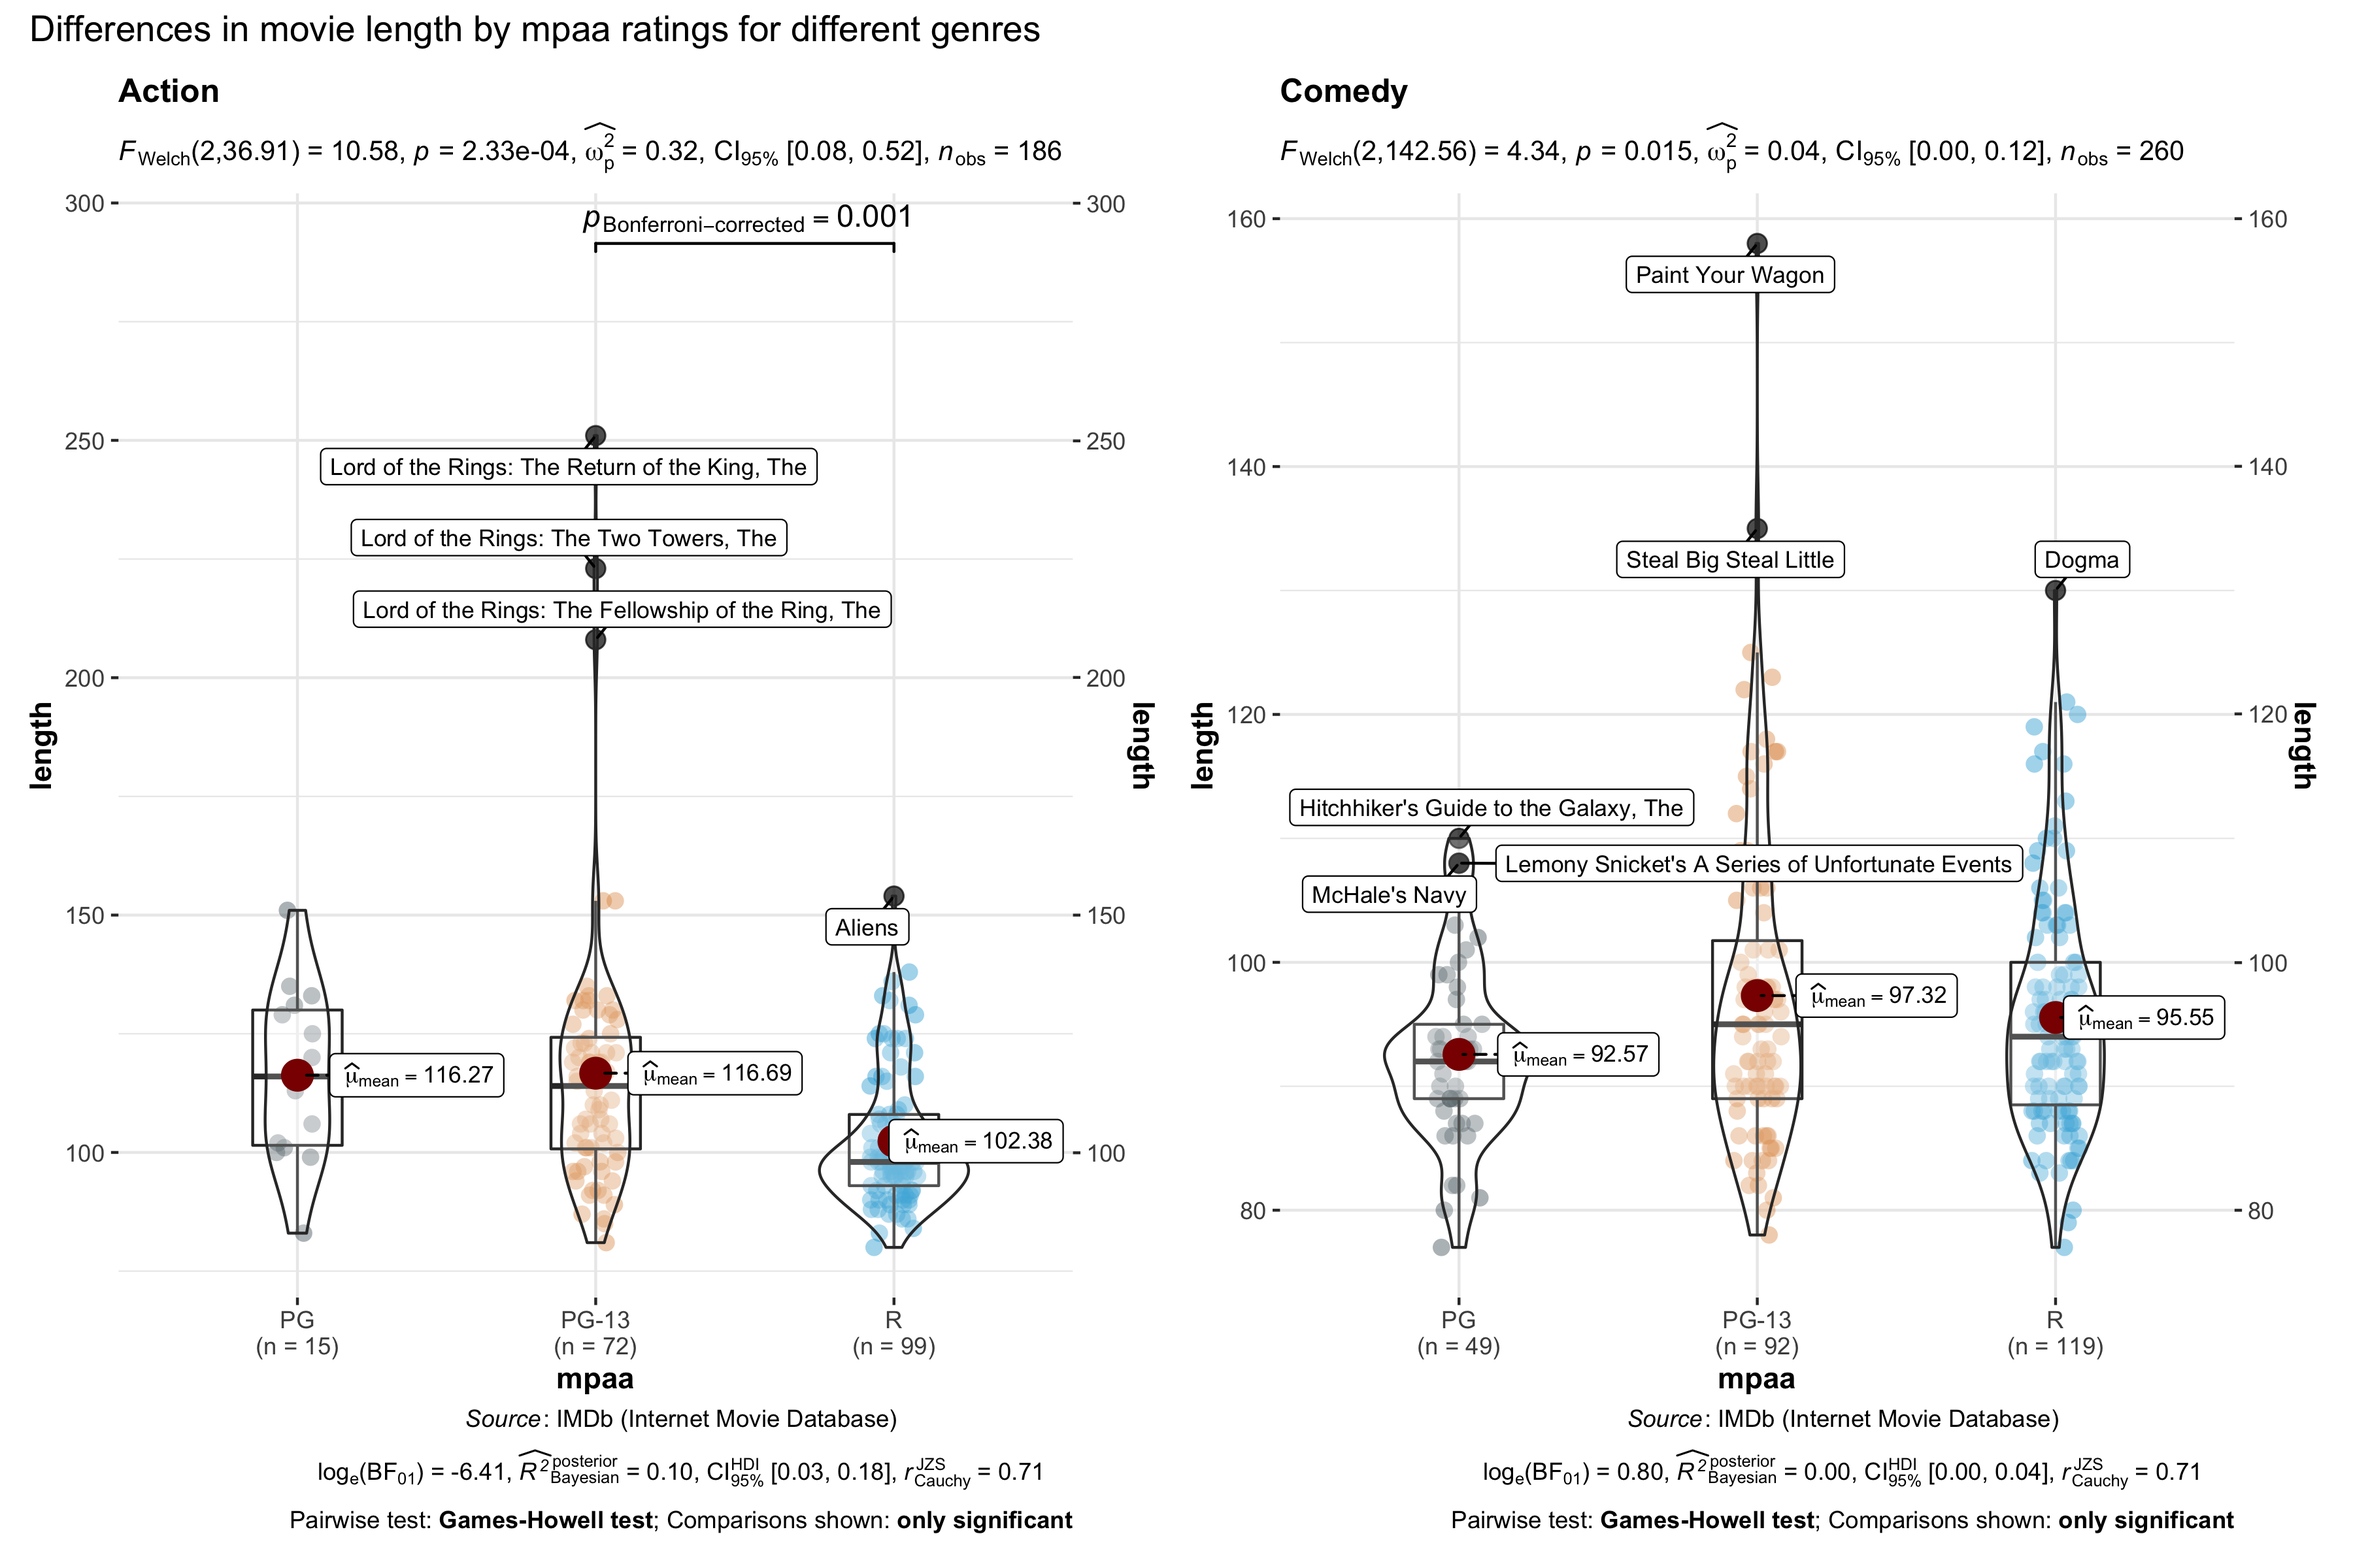
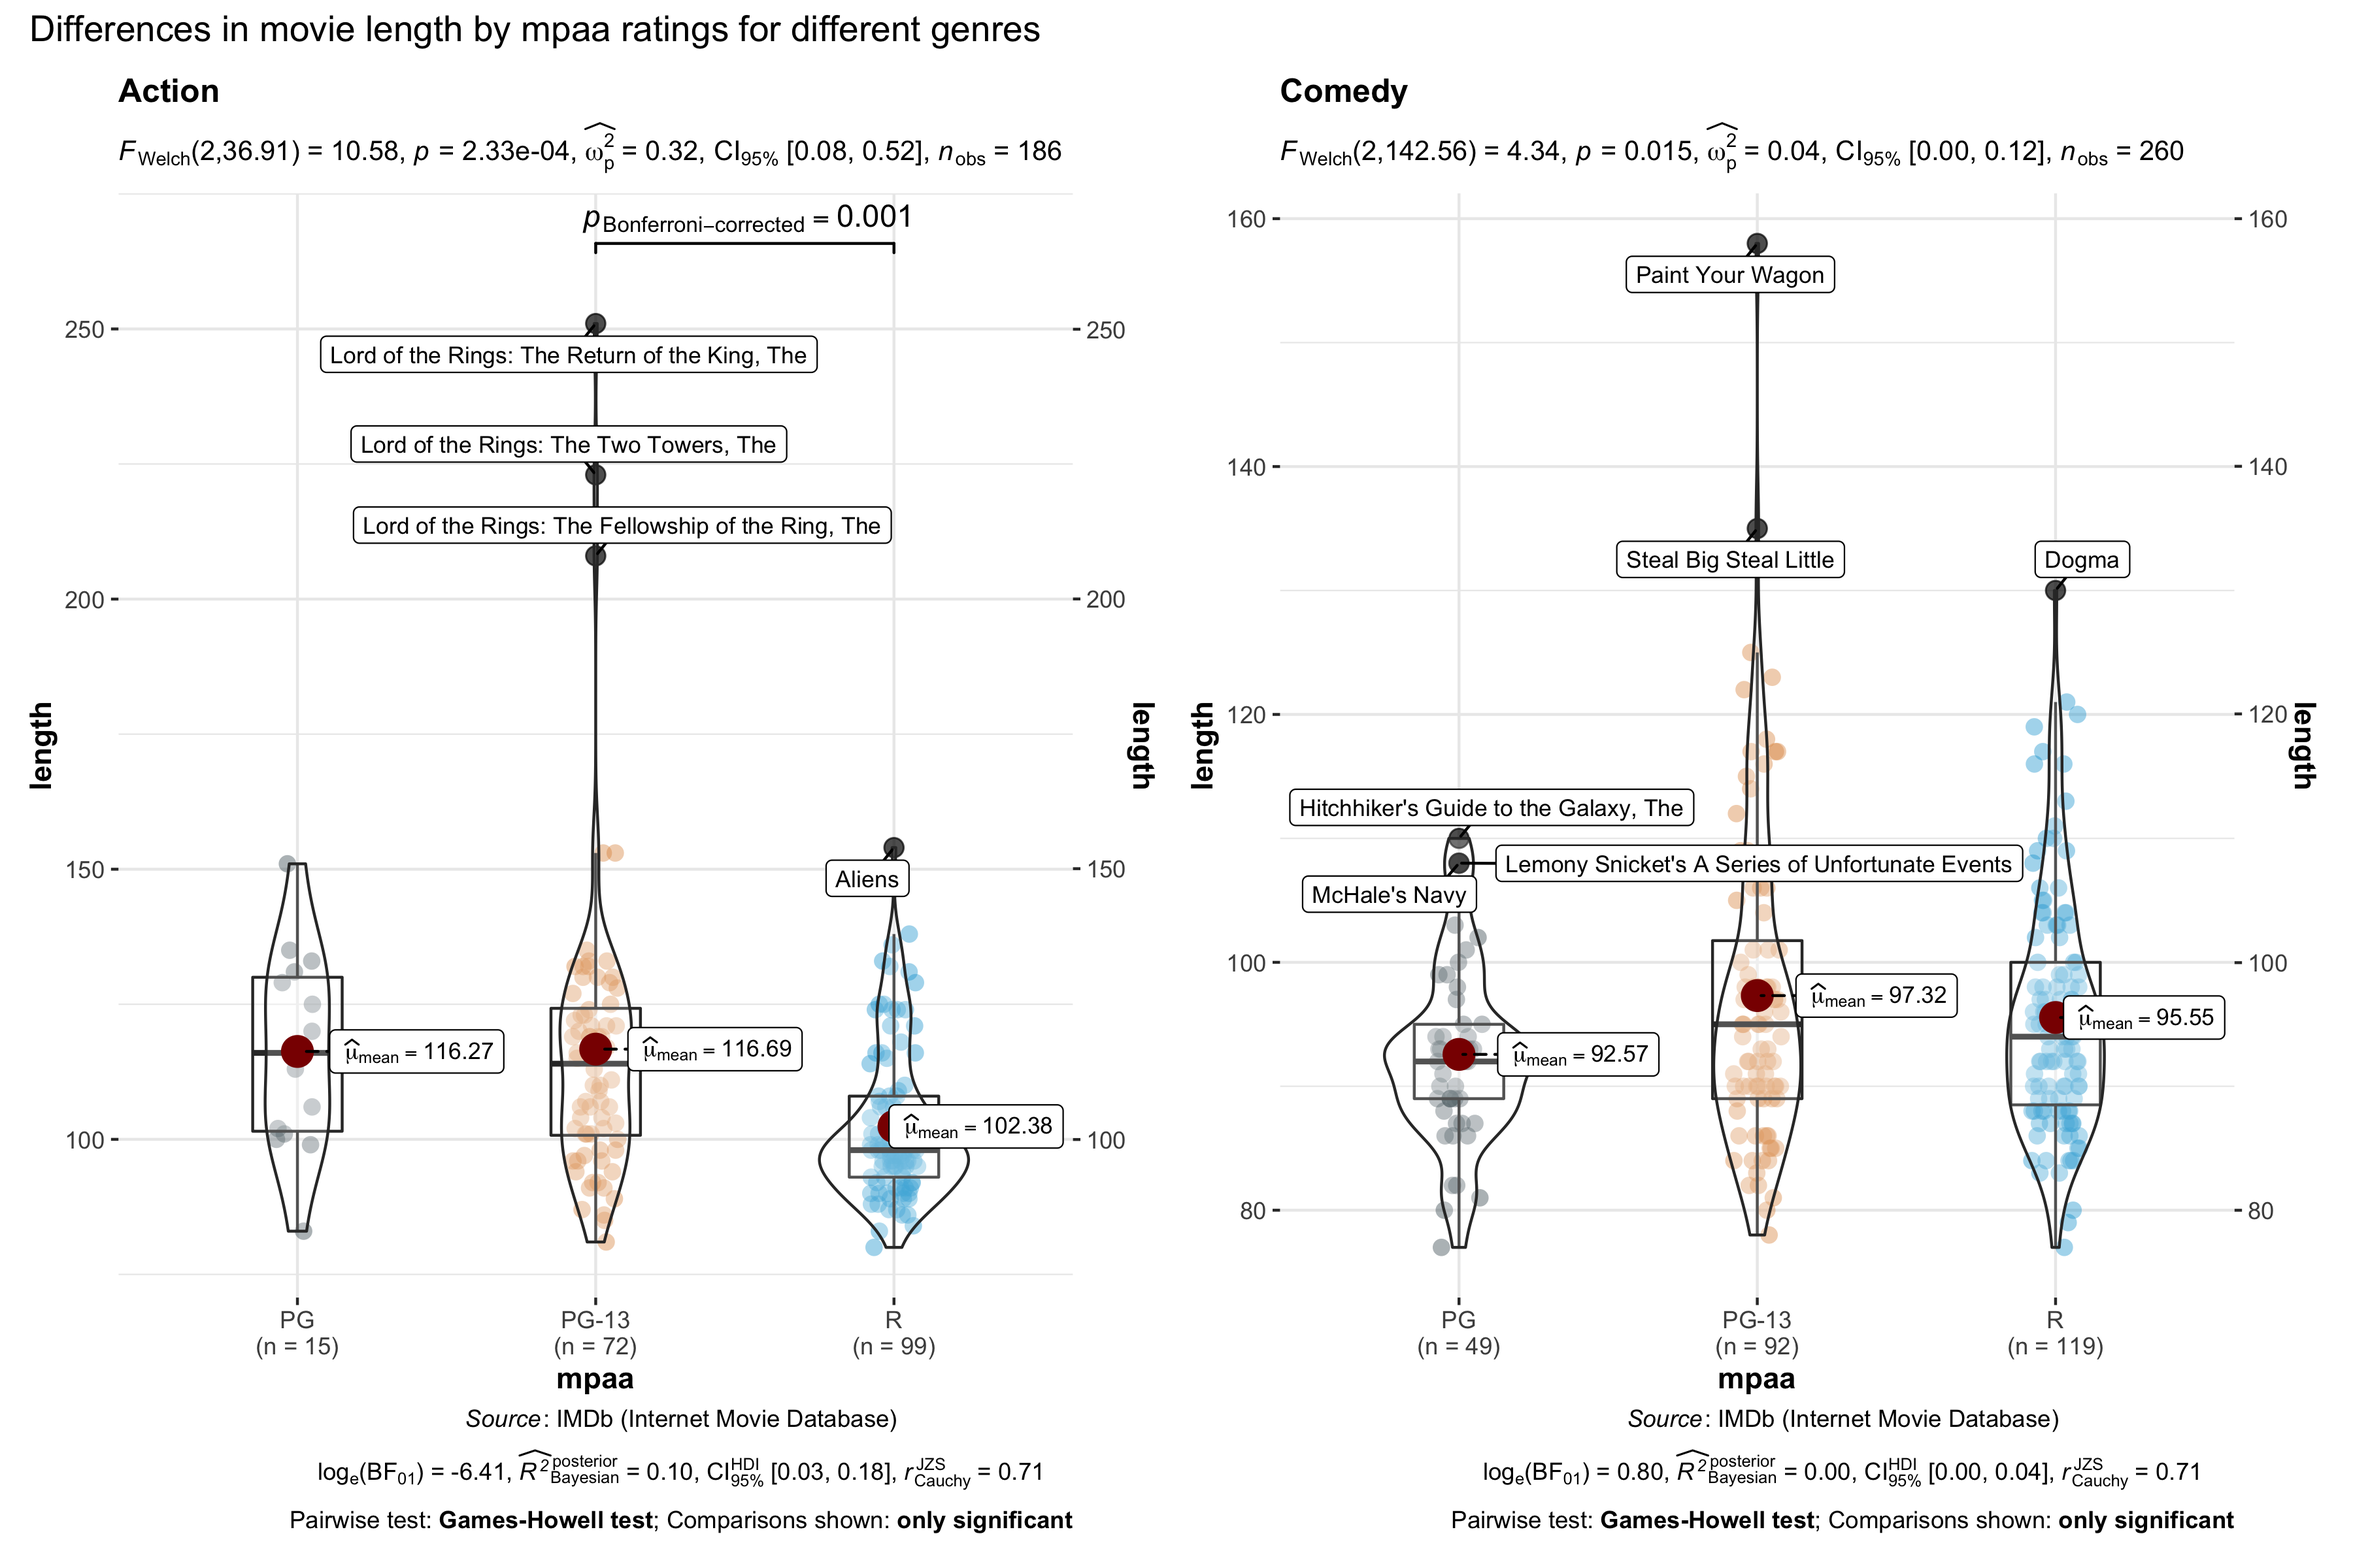
revert ggsignif_xy move change

Changed region(s): [[0.0311, 0.5312, 0.4978, 0.7812], [0.1244, 0.1875, 0.3733, 0.4375]]

diff --git a/tests/testthat/_snaps/pairwise_ggsignif.md b/tests/testthat/_snaps/pairwise_ggsignif.md
@@ -204,9 +204,9 @@
       1 1    1 167852.2 169428.2 list(~italic(p)[uncorrected]==0.0467) PG-PG-13-1
       2 1    2 169428.2 169428.2 list(~italic(p)[uncorrected]==0.0467) PG-PG-13-1
       3 2    2 169428.2 167852.2 list(~italic(p)[uncorrected]==0.0467) PG-PG-13-1
-      4 2    2 191492.2 193068.2 list(~italic(p)[uncorrected]==0.0354)  PG-13-R-2
-      5 2    3 193068.2 193068.2 list(~italic(p)[uncorrected]==0.0354)  PG-13-R-2
-      6 3    3 193068.2 191492.2 list(~italic(p)[uncorrected]==0.0354)  PG-13-R-2
+      4 2    2 179672.2 181248.2 list(~italic(p)[uncorrected]==0.0354)  PG-13-R-2
+      5 2    3 181248.2 181248.2 list(~italic(p)[uncorrected]==0.0354)  PG-13-R-2
+      6 3    3 181248.2 179672.2 list(~italic(p)[uncorrected]==0.0354)  PG-13-R-2
         PANEL shape colour textsize angle hjust vjust alpha family fontface
       1     1    19  black        3     0   0.5     0    NA               1
       2     1    19  black        3     0   0.5     0    NA               1
@@ -397,9 +397,9 @@
       1 1    1 36.915 37.175    list(~italic(p)[Holm-corrected]==0e+00) 4-f-1     1
       2 1    2 37.175 37.175    list(~italic(p)[Holm-corrected]==0e+00) 4-f-1     1
       3 2    2 37.175 36.915    list(~italic(p)[Holm-corrected]==0e+00) 4-f-1     1
-      4 2    2 40.815 41.075 list(~italic(p)[Holm-corrected]==6.09e-08) f-r-2     1
-      5 2    3 41.075 41.075 list(~italic(p)[Holm-corrected]==6.09e-08) f-r-2     1
-      6 3    3 41.075 40.815 list(~italic(p)[Holm-corrected]==6.09e-08) f-r-2     1
+      4 2    2 38.865 39.125 list(~italic(p)[Holm-corrected]==6.09e-08) f-r-2     1
+      5 2    3 39.125 39.125 list(~italic(p)[Holm-corrected]==6.09e-08) f-r-2     1
+      6 3    3 39.125 38.865 list(~italic(p)[Holm-corrected]==6.09e-08) f-r-2     1
         shape colour textsize angle hjust vjust alpha family fontface lineheight
       1    19  black        3     0   0.5     0    NA               1        1.2
       2    19  black        3     0   0.5     0    NA               1        1.2
@@ -525,7 +525,8 @@
       NULL
       
       $caption
-      NULL
+      atop(displaystyle(NULL), expr = paste("Pairwise test: ", bold("Student's t-test"), 
+          "; Comparisons shown: ", bold("all")))
       
       $label
       [1] "label"
